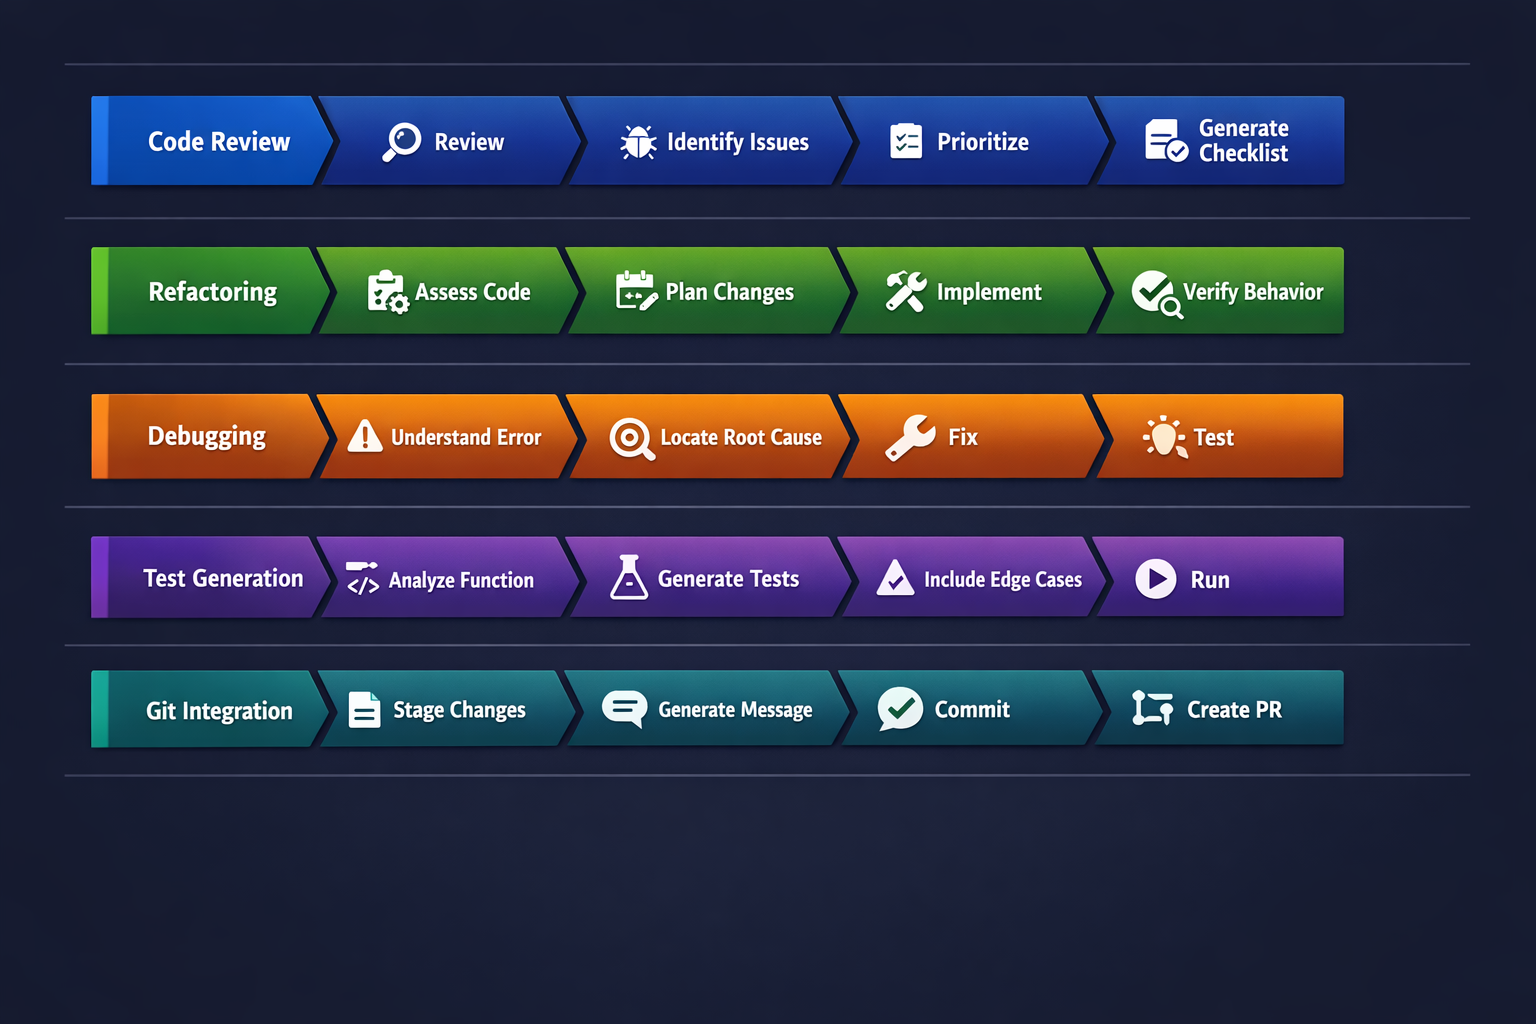
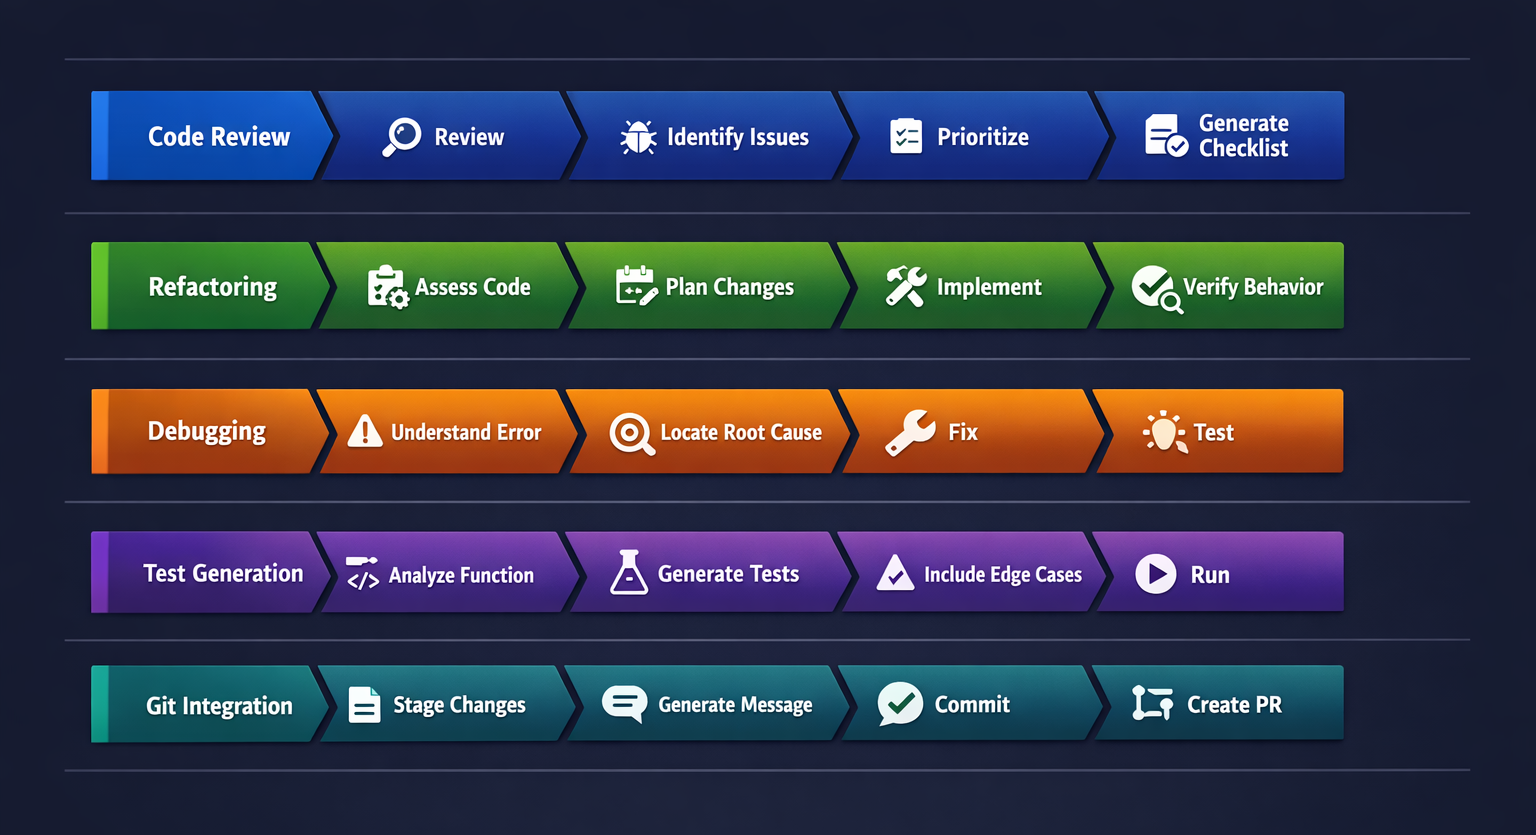
Update to add image for each section, and crop overall image. Remove second AI gen image at top.

diff --git a/03-development-workflows/README.md b/03-development-workflows/README.md
@@ -2,7 +2,7 @@
 
 > **What if the AI could find bugs you didn't even know to ask about?**
 
-In this chapter, GitHub Copilot CLI becomes your daily driver. You'll learn the workflows you'll use constantly: running comprehensive code reviews, refactoring legacy code safely, debugging issues with AI assistance, generating tests automatically, and integrating Copilot with your git workflow. The "Bug Detective" demo shows AI finding related bugs you didn't even ask about. That's when it gets truly impressive.
+In this chapter, GitHub Copilot CLI becomes your daily driver. You'll learn how to leverage Copilot CLI in the workflows you'll use constantly already, such as testing, refactoring, debugging, and git.
 
 ## Learning Objectives
 
@@ -30,13 +30,10 @@ A master carpenter doesn't just know how to use tools - they have *workflows* fo
 
 Similarly, developers have workflows for different tasks. GitHub Copilot CLI enhances each one.
 
-> 💡 **Important**: The workflows below are **independent tools**, not a mandatory sequence. Use whichever workflow fits your current task. You might do code review without debugging, or jump straight to test generation. There's no "correct" order.
->
-> **Test-first developers**: If you practice TDD (Test-Driven Development), you'd typically start with Workflow 4 (Test Generation), then implement code, then use Workflow 1 (Code Review).
 
-<img src="images/craftsman-workshop-analogy.png" alt="Specialized Workflows for Every Task" width="800"/>
+### Programming Workflows
 
-*The right tool for every development task: Code Review, Refactoring, Debugging, Testing, and Git Integration*
+Here are five commonly used workflows in programming that you can use in the order you need. We'll see how Copilot CLI can help us upgrade them.
 
 <img src="images/five-workflows-swimlane.png" alt="Five Development Workflows: Code Review, Refactoring, Debugging, Test Generation, and Git Integration shown as horizontal swimlanes" width="800"/>
 
@@ -45,6 +42,10 @@ Similarly, developers have workflows for different tasks. GitHub Copilot CLI enh
 ---
 
 ## Workflow 1: Code Review
+
+
+
+<img src="images/code-review-swimlane-single.png" alt="Code review workflow: review, identify issues, prioritize, generate checklist." width="800"/>
 
 ### Basic Review
 
@@ -56,11 +57,13 @@ copilot
 
 ### Input Validation Review
 
-```bash
+
+```text
 copilot
 
 > Review @samples/book-app-project/utils.py for input validation issues. Check for: missing validation, error handling gaps, and edge cases
 ```
+
 
 ### Cross-File Project Review
 
@@ -140,6 +143,7 @@ copilot
 ---
 
 ## Workflow 2: Refactoring
+<img src="images/refactoring-swimlane-single.png" alt="Refactoring workflow: assess code, plan changes, implement, verifiy behavrior." width="800"/>
 
 ### Simple Refactoring
 
@@ -215,6 +219,7 @@ copilot
 ---
 
 ## Workflow 3: Debugging
+<img src="images/debugging-swimlane-single.png" alt="Debugging workflow: understand error, locate root cause, fix, test." width="800"/>
 
 ### Simple Debugging
 
@@ -341,6 +346,7 @@ copilot
 ---
 
 ## Workflow 4: Test Generation
+<img src="images/test-gen-swimlane-single.png" alt="Test Generationg workflow: analyze function, generate tests, include edge cases, run." width="800"/>
 
 ### The "Test Explosion" - 2 Tests vs 15+ Tests
 
@@ -465,6 +471,8 @@ copilot
 ---
 
 ## Workflow 5: Git Integration
+
+<img src="images/git-integration-swimlane-single.png" alt="Git Integreation workflow: stage changes, generate message, commit, create PR." width="800"/>
 
 ### Generate Commit Messages
 
